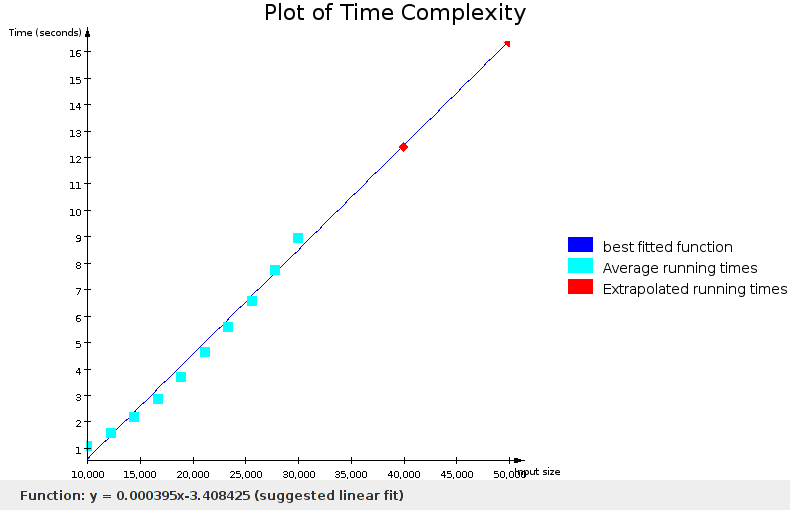
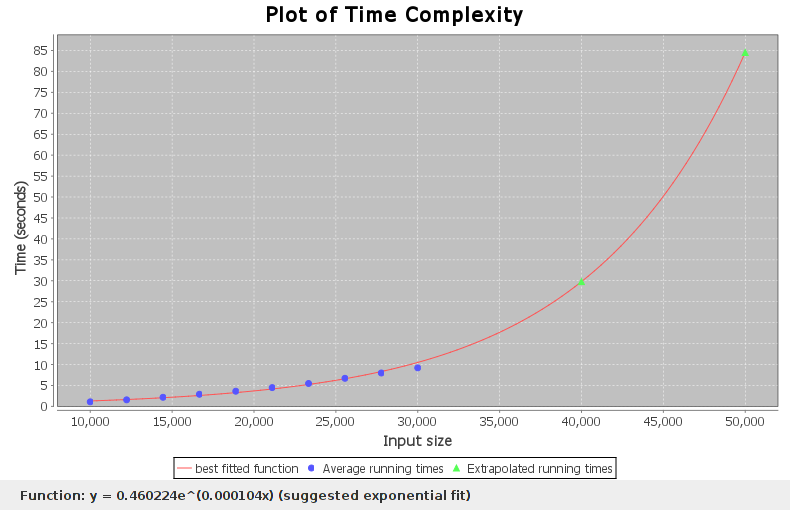
Update manual with some linkes, and new screenshots for the JFreeChart plots.

diff --git a/manual/manual.html b/manual/manual.html
@@ -16,16 +16,21 @@ a Java interface may be added.</p>
 
 <h2>Setup and Installation</h2>
 
-<p><strong>The Hard Way:</strong>Three dependancies are required: The clojure
-language, the clojure-contrib clojure library, and the OpenChart2 java plotting
-library. All these jar files must be in your java classpath. From the
+<p><strong>The Hard Way:</strong> Three dependancies are required:
+The <a href="http://code.google.com/p/clojure/downloads/list">clojure
+language</a>,
+the <a href="http://github.com/richhickey/clojure-contrib/tree/master">clojure-contrib
+clojure library</a> (which must be built from source at the moment),
+the <a href="http://www.jfree.org/jfreechart/download.html">JFreeChart java
+plotting library</a>, and the JCommon java library (included with
+JFreeChart). All these jar files must be in your java classpath. From the
 Functerpolate top level directory, run something like:
 <pre>
-java -cp .:/path/to/clojure.jar:/path/to/clojure-contrib.jar/:/path/to/openchart2.jar clojure.main [functerpolate script] [arguments]
+java -cp .:/path/to/clojure.jar:/path/to/clojure-contrib.jar/:/path/to/jfreechart-version.jar:/path/to/jcommon-version.jar clojure.main [functerpolate script] [arguments]
 </pre>
 </p>
 
-<p><strong>The Easy Way:</strong>Make sure you have the latest Java version
+<p><strong>The Easy Way:</strong> Make sure you have the latest Java version
 installed. Download the 'kitchen sink' version, and cd into the Functerpolate
 top level directory. On Linux or Mac (from a terminal), run:
 <pre>
@@ -58,7 +63,7 @@ specified using the 'regression' option.</p>
 
 <p><em>Example of use</em>
 <pre>
-samwise@hex in functerpolate $ clj functerpolate.clj
+samwise@hex in functerpolate $ ./functerpolate.sh
 interpolator -- interpolate and extrapolate values from a dataset
 Options
   --regression, -r &lt;arg&gt;  Use the given regression method to fit a least-squares
@@ -73,7 +78,7 @@ Options
                           points.
   --quiet, -q             Print out just the interpolated data, nothing else
                           thanks.
-samwise@hex in functerpolate $ clj functerpolate.clj -r linear -p
+samwise@hex in functerpolate $ ./functerpolate.sh -r linear -p
 0 1
 1 2
 2 3
@@ -99,7 +104,7 @@ to generate more accurate data.</p>
 
 <p><em>Example of use</em>
 <pre>
-samwise@hex in functerpolate $ clj complexity.clj
+samwise@hex in functerpolate $ ./complexity.sh
 complexity.clj: attempt to detirmine the time complexity vs input size for a
 given program.
 
@@ -137,22 +142,22 @@ Insertion sort
 
 Array after sorting
  7 257 752 856 955
-samwise@hex in functerpolate $ clj complexity.clj --plot --start 10000 --limit 30000 --runs 5 --extrapolate 40000,50000 ./isort ./genrandom
-The suggested complexity is O(N), or linear-time.
+samwise@hex in functerpolate $ ./complexity.sh --plot --start 10000 --limit 30000 --runs 5 --extrapolate 40000,50000 ./isort ./genrandom
+The suggested complexity is O(e^N), or exponential-time.
 Input size    Average runtime over 5 runs
-10000         1.083128s
-12222         1.590186s
-14444         2.201796s
-16666         2.864993s
-18888         3.702366s
-21111         4.638832s
-23333         5.597922s
-25555         6.568676s
-27777         7.735341s
-30000         8.961043s
+10000         1.101127s
+12222         1.574126s
+14444         2.179658s
+16666         2.903265s
+18888         3.631173s
+21111         4.494486s
+23333         5.478675s
+25555         6.714245s
+27777         7.984175s
+30000         9.211676s
 Input size    Predicted runtime
-40000         12.397597s
-50000         16.349103s
+40000         29.791387s
+50000         84.502785s
 </pre>
 <img src="results2.png" title="Plot of complexity analysis results" />
 </p>
